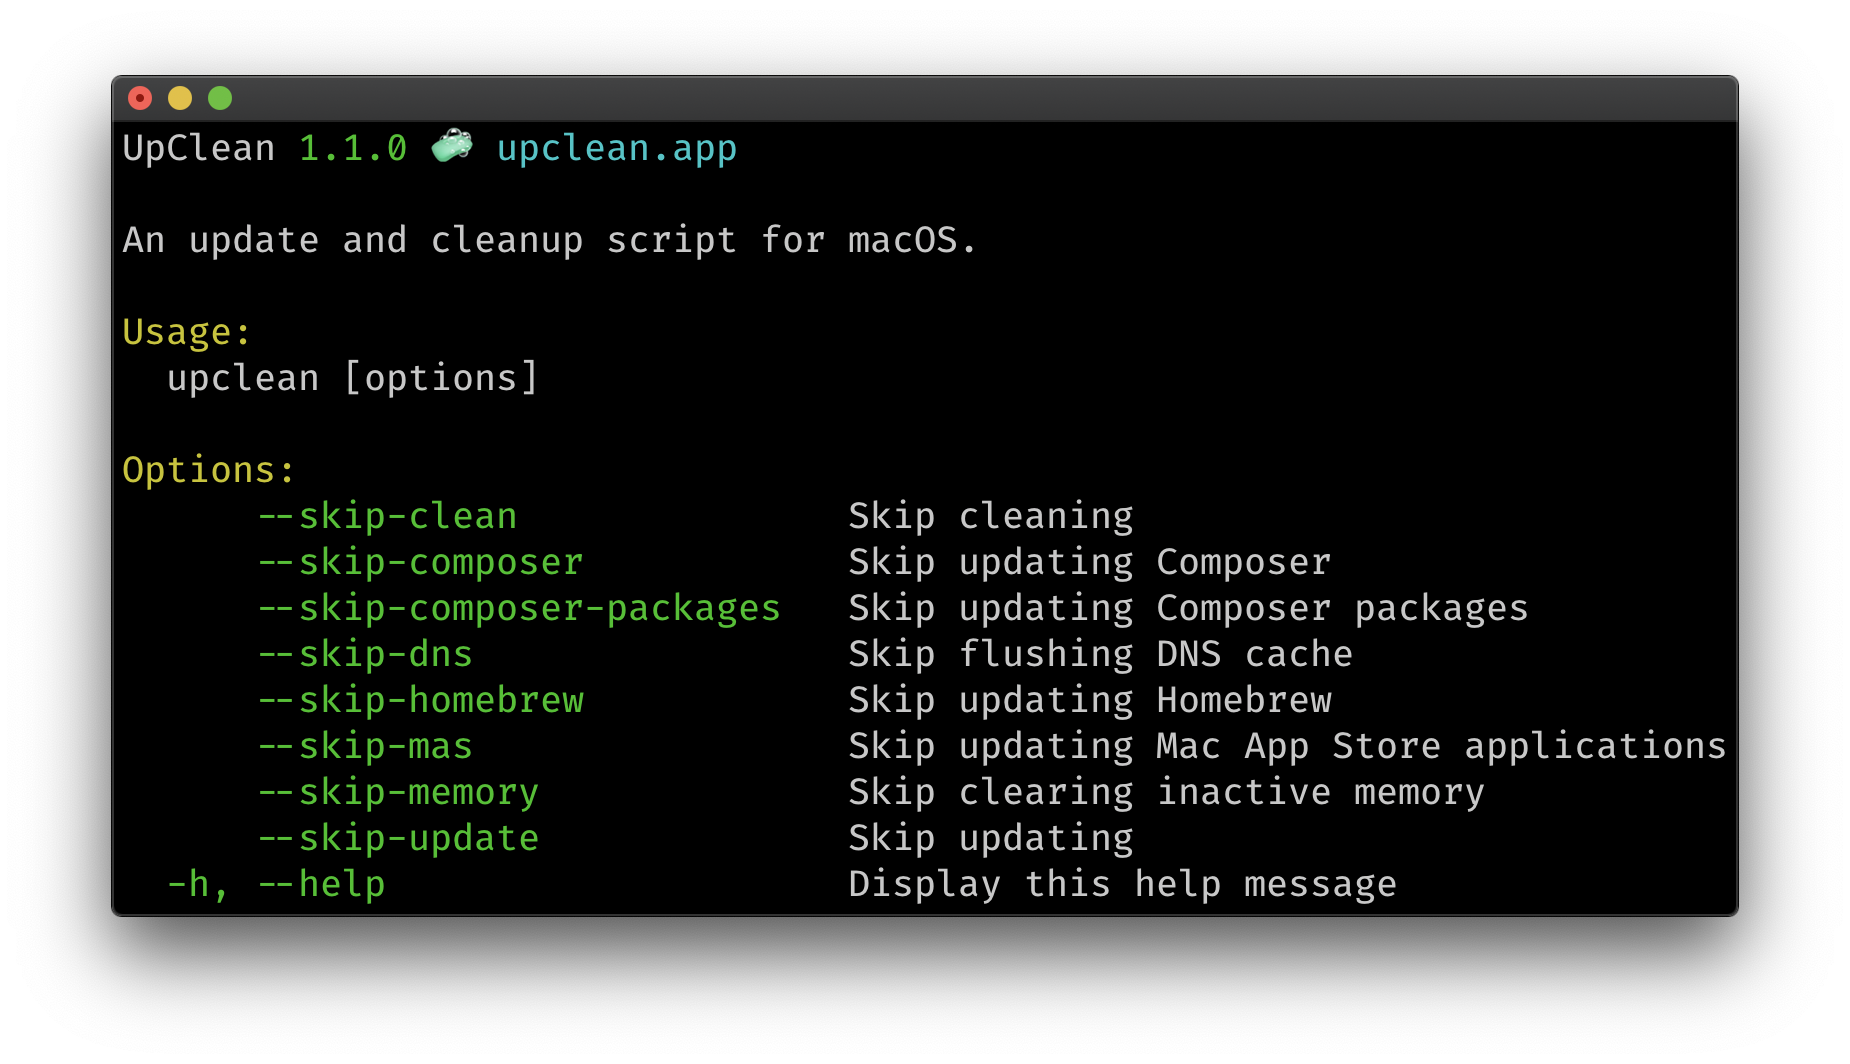
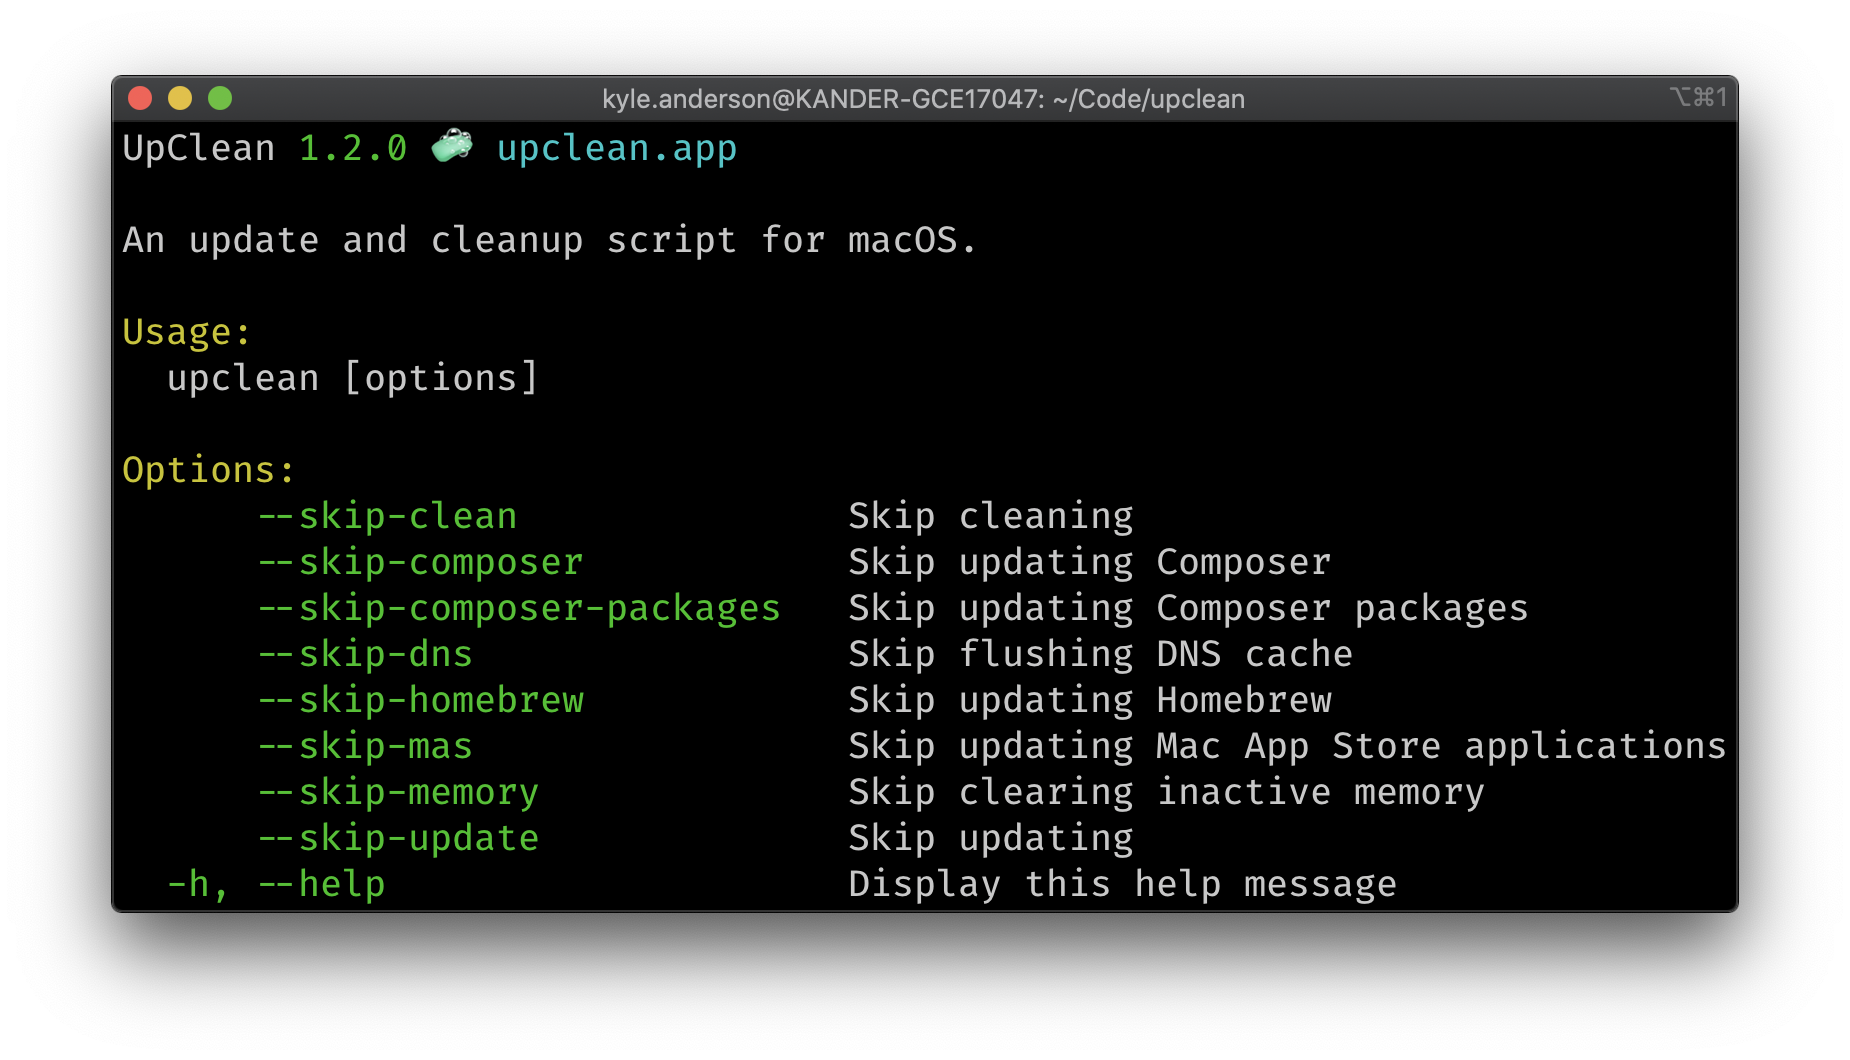
Update version

diff --git a/readme.md b/readme.md
@@ -33,7 +33,7 @@ mv upclean /usr/local/bin/upclean
 ```
 $ upclean --help
 
-UpClean 1.1.0 🧼 upclean.app
+UpClean 1.2.0 🧼 upclean.app
 
 An update and cleanup script for macOS.
 
